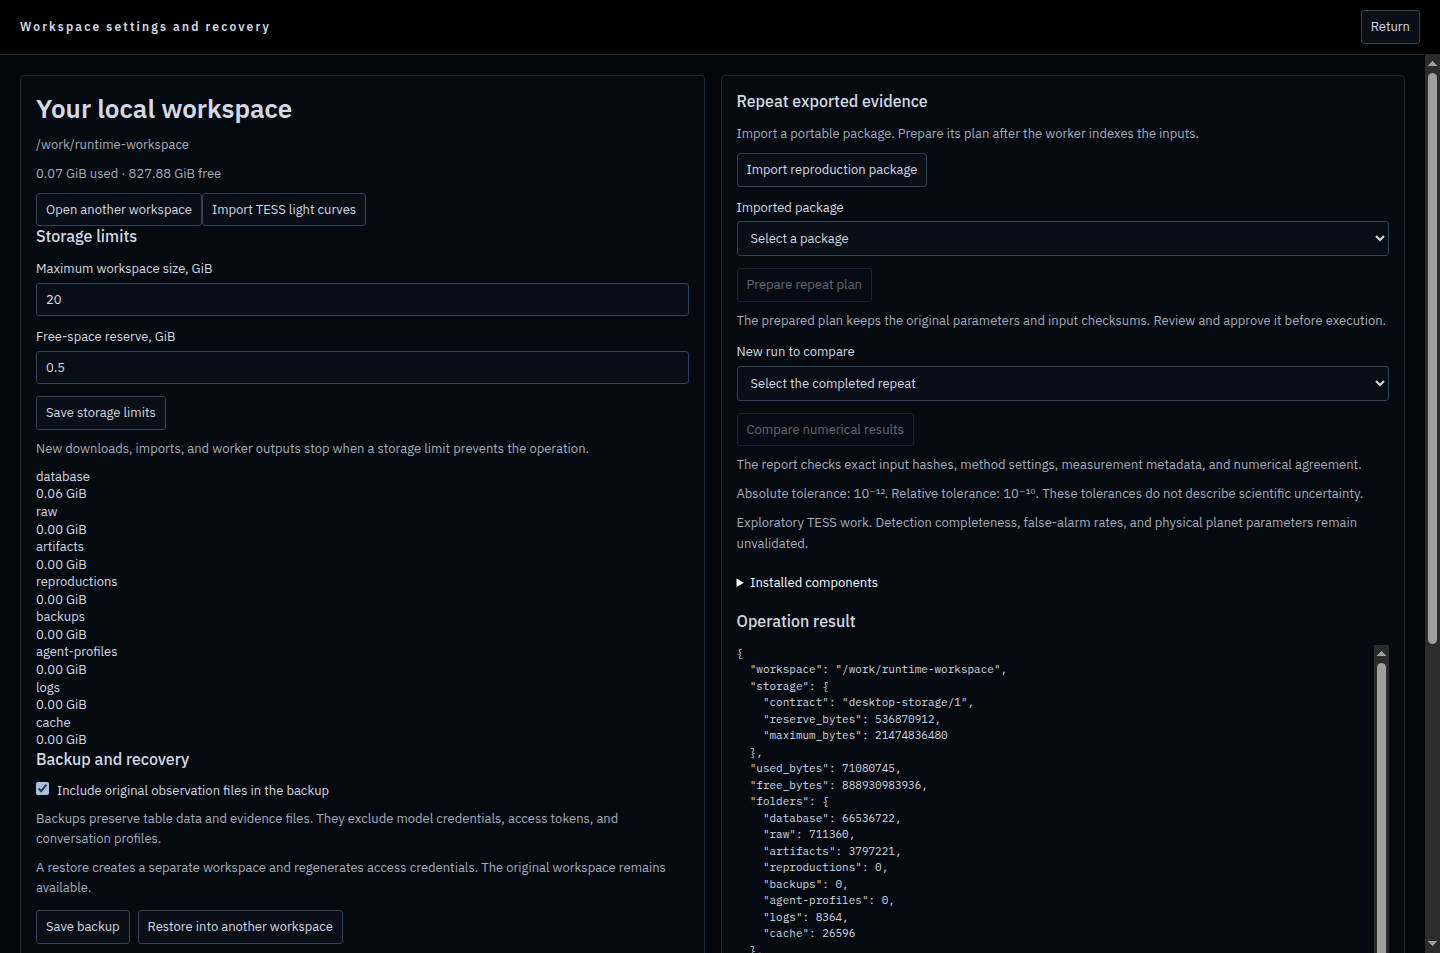
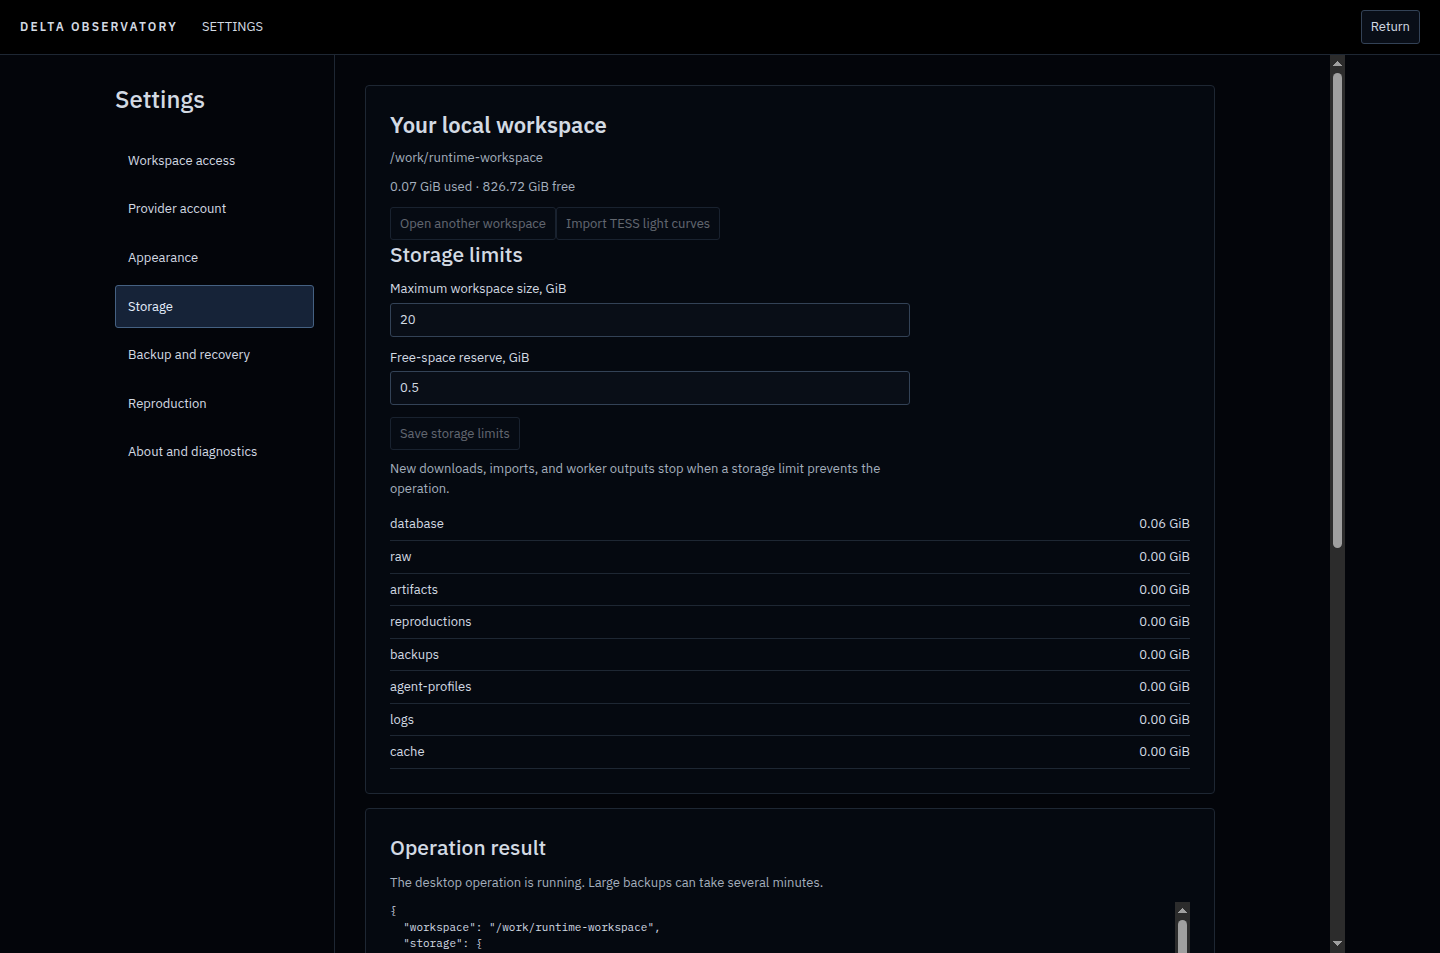
Package workspace login and settings with checked browser sessions

diff --git a/release/scripts/installer.py b/release/scripts/installer.py
@@ -64,7 +64,7 @@ def ar_member(out,name,path):
 
 
 def main():
-    parser=argparse.ArgumentParser();parser.add_argument('--package',type=Path,required=True);parser.add_argument('--output',type=Path,required=True);parser.add_argument('--version',default='0.2.0~preview1');args=parser.parse_args()
+    parser=argparse.ArgumentParser();parser.add_argument('--package',type=Path,required=True);parser.add_argument('--output',type=Path,required=True);parser.add_argument('--version',default='0.2.0~preview2');args=parser.parse_args()
     if not re.fullmatch(r'[0-9][A-Za-z0-9.+:~_-]*',args.version):raise SystemExit('Invalid Debian package version.')
     if not (args.package/'BUILD.json').exists():raise SystemExit('Select a checked application directory.')
     spec=importlib.util.spec_from_file_location('verify_package',Path(__file__).with_name('verify-package.py'))

diff --git a/release/README.md b/release/README.md
@@ -19,9 +19,11 @@ The first start requests a workspace directory.
 The application remembers that directory in `$XDG_CONFIG_HOME/delta-observatory/desktop.json`, or `~/.config/delta-observatory/desktop.json`.
 An explicit `--workspace=<directory>` selects a separate workspace without changing this preference.
 The adjacent `.electron-profile` directory stores the browser profile.
-The desktop window receives its workspace owner's token.
+The welcome page offers **Continue as workspace owner** and read-only access.
+The desktop owner token remains in the current window session.
+**Settings → Workspace access** shows permissions and provides sign-out.
 
-The Ubuntu 24.04 amd64 installer is `release/.dist/delta-observatory_0.2.0~preview1_amd64.deb`.
+The Ubuntu 24.04 amd64 installer is `release/.dist/delta-observatory_0.2.0~preview2_amd64.deb`.
 It installs the application under `/opt/delta-observatory` and supplies a desktop menu entry.
 It supplies application-specific AppArmor permissions for the Chromium and Bubblewrap user namespaces.
 The installer is a local preview artifact. Fresh operating-system installation qualification remains open.
@@ -42,7 +44,7 @@ The installer is a local preview artifact. Fresh operating-system installation q
 The guided target is TIC 100100827, WASP-18, in sector 2.
 It is a known-object demonstration on development data.
 The package contains no downloaded astronomical observations.
-**Workspace → Import TESS light curves** also accepts local `_lc.fits` files.
+**Settings → Storage → Import TESS light curves** also accepts local `_lc.fits` files.
 
 Each saved revision preserves its parent and settings.
 An execution refers to an approved revision and a unique request key.
@@ -63,6 +65,11 @@ The API enforces permissions on every request.
 The connection controls use pinned Codex app-server 0.164.0 and the checked `gpt-5.4` model.
 Model access requires an eligible account or an OpenAI API key.
 The connection requests explicit consent before sending permitted investigation evidence and instructions to the provider.
+Open **Settings → Provider account** to connect before creating an investigation.
+**Continue with ChatGPT** opens the provider authorization page in the default browser.
+**Use a device code** provides an alternative authorization method.
+The API key form accepts an OpenAI API key.
+Pending login provides browser reopening and cancellation controls.
 Live account login and provider reconnection still require acceptance checks.
 
 Credentials use memory or the operating-system credential store.
@@ -79,12 +86,15 @@ Saved session records preserve provider references and measured use.
 Reconnect rotates the scoped client token.
 The API enforces approved job, compute, turn, and measured token limits.
 Token notifications can arrive after use. These controls do not guarantee a provider spending cap.
-Closing the investigation view disconnects the managed agent.
+Navigation preserves the provider connection and current session.
+**Disconnect agent** pauses the investigation session while preserving provider login.
+**Sign out of provider** pauses the agent and removes provider login.
+Workspace sign-out stops the agent host and removes the workspace token from the window.
 Manual controls remain available without a provider connection.
 
 ## Storage, reproduction, and recovery
 
-**Workspace** provides storage limits, import, reproduction, backups, restore, diagnostics, and release metadata checks.
+**Settings** provides workspace access, provider login, appearance, storage limits, reproduction, backups, restore, diagnostics, and release metadata checks.
 The default workspace limit is 20 GiB. The minimum free-space reserve is 512 MiB.
 Downloads, imports, and worker outputs check these limits before writing.
 Startup also requires at least 512 MiB of available memory.
@@ -126,6 +136,8 @@ Run this command from the workspace root:
 
 Open `http://<machine-LAN-address>:41871/?investigations` in a LAN browser.
 Anonymous browser access uses the existing read-only GUI client.
+**Sign in** accepts a workspace access token.
+The token stays in the current tab unless the user selects **Remember this browser**.
 The server does not attach the owner credential to browser requests.
 **Workspace → Copy this workspace token** supplies the token for authorized browser operations.
 Managed model connections and local file operations require the native desktop window.
@@ -213,7 +225,7 @@ Build downloads require network access. Manual analysis runs offline after acqui
     ```bash
     python3 release/scripts/installer.py \
       --package release/.dist/delta-observatory-preview-linux-x64 \
-      --output 'release/.dist/delta-observatory_0.2.0~preview1_amd64.deb'
+      --output 'release/.dist/delta-observatory_0.2.0~preview2_amd64.deb' --version '0.2.0~preview2'
     ```
 
 `prepare.py` exports Git commits and checks vendored contracts and migrations.
@@ -241,7 +253,7 @@ The product check covers plan approval, branches, review records, numerical repr
 The migration check covers automatic backup and recovery from the previous desktop schema.
 The isolated check hides host files and system language runtimes.
 It disables external networking and checks the agent against a local fake provider.
-It checks native desktop forms, plots, navigation, settings, scrolling, and screenshots on an isolated X display.
+It checks native desktop forms, plots, navigation, settings, scrolling, and screenshots on an isolated X screen.
 [QUALIFICATION.md](QUALIFICATION.md) records the evidence and limits.
 
 ## Local files

diff --git a/release/QUALIFICATION.md b/release/QUALIFICATION.md
@@ -12,10 +12,11 @@ The preview does not claim completed beta qualification.
 | Contracts | 24 schemas and 56 examples pass. Canonical contracts define plans, acquisition, sessions, reproduction, storage, and backups. |
 | API | 101 tests pass against temporary PostgreSQL servers. Checks include scope, exact approval, concurrency, repeated execution keys, and cumulative session limits. |
 | Workers | 14 tests pass. Coverage includes scientific regression, acquisition integrity and retry, indexing, cancellation, and storage limits. |
-| Frontend | TypeScript and the production build pass. The component suite contains 104 passing tests. |
-| Agent components | 12 adapter, 10 importer, and seven managed-host tests pass with test services. |
+| Frontend | TypeScript and the production build pass. The component suite contains 108 passing tests. |
+| Agent components | 12 adapter, 10 importer, and 12 managed-host tests pass with test services. |
 | Isolated agent | Pinned Codex completes a tool round trip against a local fake provider. Only the supplied API tool reaches the checked model. |
 | Filesystem isolation | The bundled Bubblewrap process cannot see the synthetic private token, host home, or database socket. |
+| Login | A local protocol fixture checks provider login, cancellation, account updates, and sign-out. Native checks cover workspace access before an investigation exists. |
 | Native interface | Automated desktop checks create, approve, and execute a plan. They inspect plots, operation forms, navigation, settings, and narrow-window scrolling. |
 | Rendering | The native renderer keeps its sandbox enabled. Local fonts and plot pixels pass. The renderer reports no console errors. |
 | Complete journey | A synthetic investigation creates review records and a changed-parameter branch. Exact execution requests remain idempotent. |
@@ -26,7 +27,10 @@ The preview does not claim completed beta qualification.
 
 The [engineering report](evidence/product-check.json) retains command results, package identities, and check summaries.
 The [investigation screenshot](evidence/investigation.png) shows synthetic engineering evidence in the native interface.
-The [settings screenshot](evidence/settings.png) shows storage and reproduction controls.
+The [settings screenshot](evidence/settings.png) shows the storage section.
+The [login screenshot](evidence/login.png) shows desktop workspace access.
+The [provider screenshot](evidence/provider-login.png) shows provider login before an investigation exists.
+The [login report](evidence/login-check.json) records the login and settings checks.
 The initial [P0 report](P0.md) remains separate historical evidence.
 
 ## Environment
@@ -52,7 +56,7 @@ These checks do not establish live download reliability across archive failures 
 | Requirement | Remaining evidence |
 |---|---|
 | Fresh Ubuntu installation | Install and remove the Debian package under the normal Ubuntu desktop, AppArmor policy, secret service, and session lifecycle. |
-| Provider account access | Complete ChatGPT device login and API-key login with explicit account consent. Check expiration, interruption, and reconnection. |
+| Provider account access | Complete ChatGPT browser login, device login, and API-key login with explicit account consent. Check expiration, interruption, and reconnection. |
 | Credential store | Check operating-system credential persistence and removal on the supported desktop. Memory-only isolation already has engineering coverage. |
 | Interface acceptance | Complete Richard's design review and check the complete journey without test automation. |
 | External usability | Six to ten representative users complete installation, investigation, recovery, and reproduction tasks. Record assistance and failure reasons. |

diff --git a/CHECKS.md b/CHECKS.md
@@ -72,7 +72,7 @@ These checks do not validate scientific performance. The frontend check does not
 |---|---|
 | `node --test release/tests/*.test.cjs` | Static path restrictions, credential forwarding, atomic import, original-file preservation, replacement refusal, and repeated imports. |
 | `python3 release/scripts/smoke.py --app <packaged-app> --workspace <unused-path> --output <unused-report-path>` | Empty startup, permissions, public catalog, workspace locking, synthetic indexing, BLS execution, export hashes, cohort refusal, shutdown, and restart. |
-| `python3 release/scripts/check-clean.py --rootfs <ubuntu-root> --package <package> --output <unused-path>` | Offline runtime execution, bundled agent isolation, native plan controls, plots, operation forms, settings, scrolling, and screenshots. |
+| `python3 release/scripts/check-clean.py --rootfs <ubuntu-root> --package <package> --output <unused-path>` | Offline runtime execution, bundled agent isolation, native plan controls, plots, operation forms, settings, scrolling, workspace login, browser tokens, sign-out, and screenshots. |
 | `python3 release/scripts/product-check.py --app <packaged-app> --output <unused-path>` | Approved plans, branches, review records, numerical reproduction in separate workspaces, backup restoration, credential rotation, and restart. |
 | `python3 release/scripts/migration-check.py --previous-app <previous-app> --app <packaged-app> --output <unused-path>` | Automatic backup before migrations and restoration of an earlier schema through forward migration. |
 | `backend/.venv/bin/python -B -m unittest discover -s release/tests -p 'test_*.py'` | Unsafe package paths, duplicate files, measurement identity, numerical comparison, and strict Boolean handling. |

diff --git a/ROADMAP.md b/ROADMAP.md
@@ -17,6 +17,7 @@ Git history records changes. Experiment records hold scientific results.
 
 - R0, the scientific contract, is active.
 - The [desktop preview](release/README.md) implements approved investigation plans, bounded MAST acquisition, managed agent controls, numerical reproduction, and backup recovery.
+- Workspace login and Settings provide account access, provider authorization, appearance, storage, reproduction, and recovery controls.
 - A local Ubuntu installer bundles five public runtime components. Isolated engineering checks pass. Provider login, fresh installation, interface review, and external usability qualification remain open.
 - Desktop migrations 0006–0008 define investigations, acquisition, and managed sessions. The k3s deployment retains its separate migration state.
 - The TESS vertical slice runs on the local k3s cluster. It has contract version 1, the database schema, the worker, the stateless API, and the frontend.
